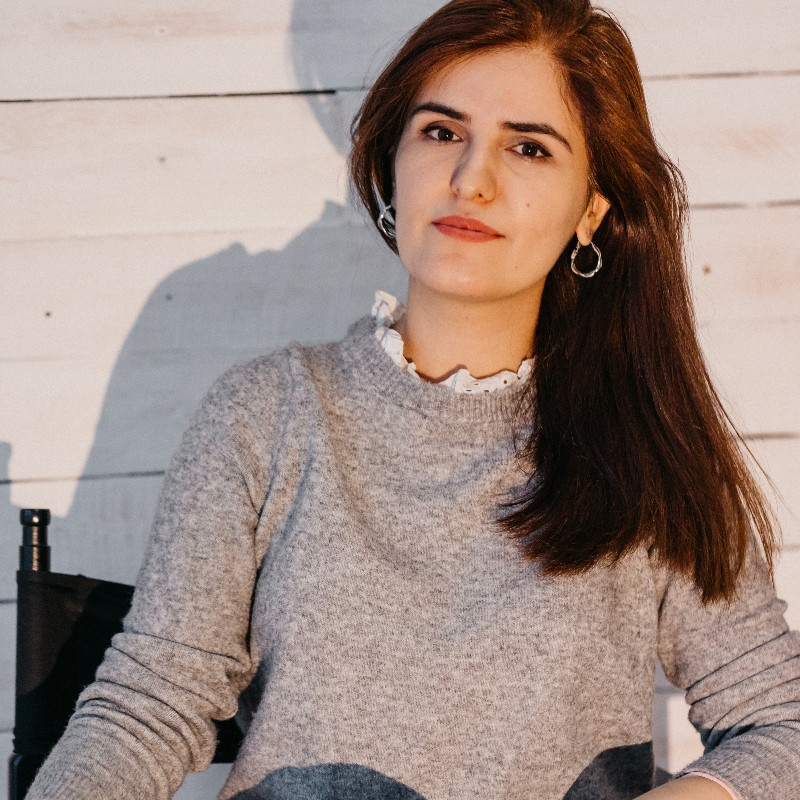
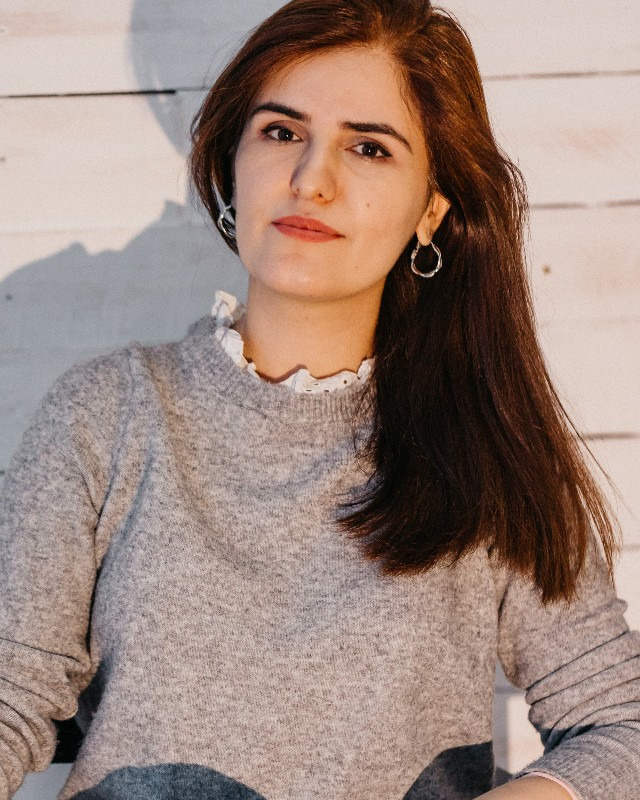
Quote photos cut to 4:5 at the source
Til (landscape) and Jonathan and Zarangez (square) sat in the 4:5 frame with object-fit:
cover. srcset picks by width, so the browser upscaled them to fill the height (Til 1.87x,
the others 1.25x). Now cut to 4:5 from the originals with the same framing: Til
1000x1250 from the 4647 px original, Jonathan and Zarangez 640x800.

diff --git a/README.md b/README.md
@@ -46,7 +46,7 @@ Gestartet wird im Hauptordner auf `main`:
 | `npm run spiel -- <name>` | Branch `spiel/<name>` ab `main`, Ordner `../soerenhaedelt-spiel/<name>`, Server auf dem nächsten freien Port ab 4322, mit Kit. Gibt es die Spielwiese schon, wird sie wieder geöffnet. |
 | `npm run spiel -- stand <name>` | Tag `stand/<name>` auf `main` (falls neu) als Ordner geöffnet, **ohne Kit**: genau die eingecheckte `tokens.css`. Der Vergleichsstand. |
 | `npm run spiel -- list` | Alle Spielwiesen und Stände mit Adresse. |
-| `npm run spiel -- weg <ordner>` | Server stoppen, Ordner entfernen. Branch und Tag bleiben. |
+| `npm run spiel -- weg <ordner>` | Server stoppen, Ordner entfernen. Branch und Tag bleiben. Bricht ab, wenn Nicht-Committetes oder neue Werte in der `design.md`-Kopie drin sind, `--force` entfernt trotzdem. |
 
 - Gespeichert wird per Commit auf dem Branch. Was überzeugt, kommt per Merge nach `main`, was nicht, wird verworfen (`git branch -D`).
 - Das Kit schreibt auf der Spielwiese in eine Kopie von `design.md` (`../soerenhaedelt-spiel/<name>.design.md`), nie in die echte.
